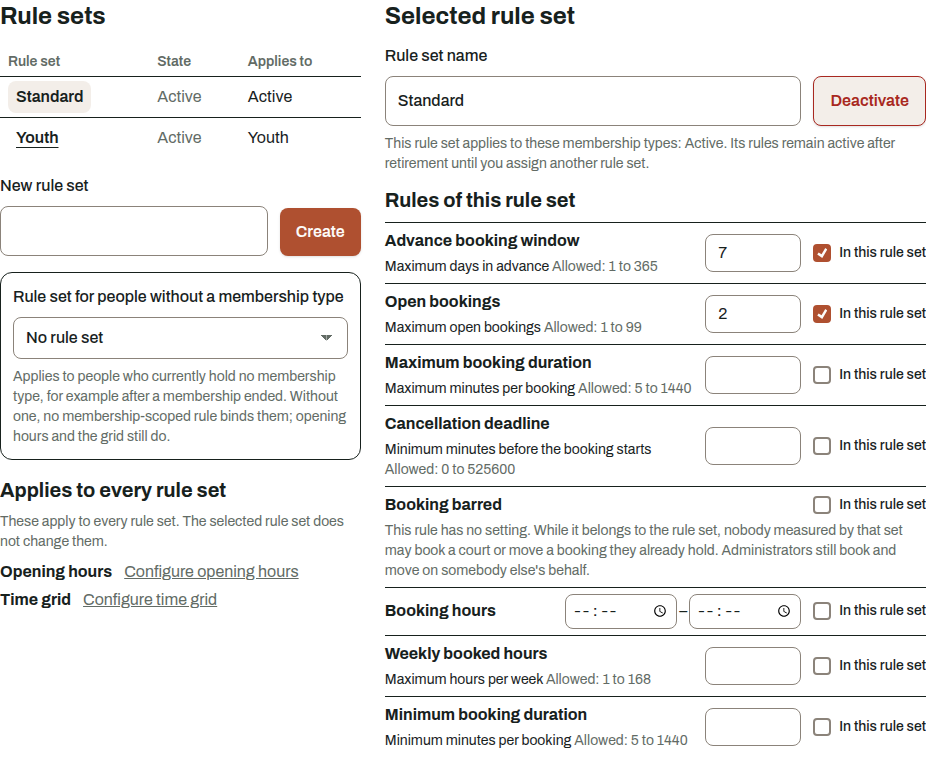
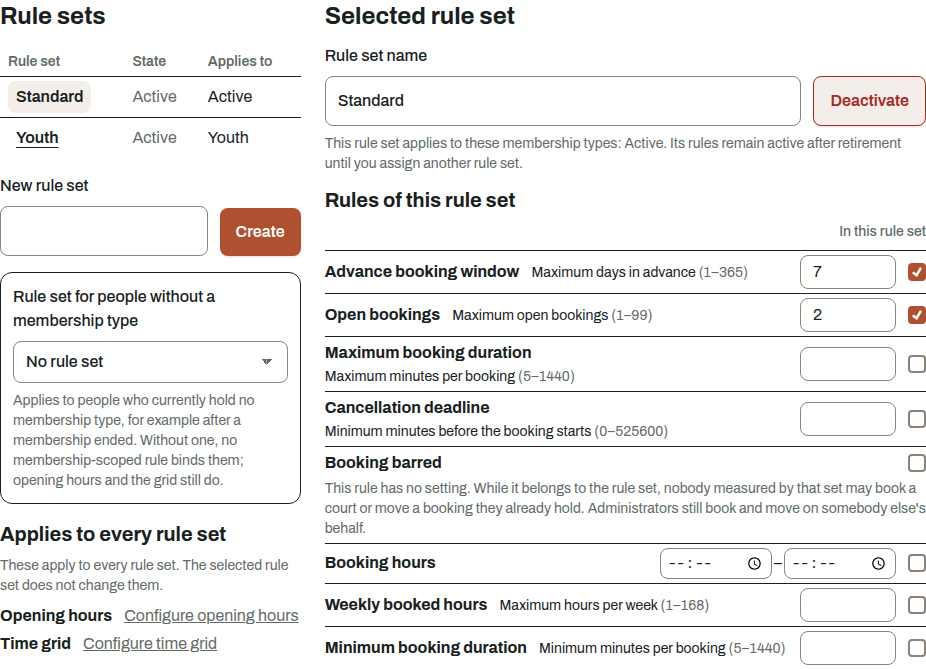
fix(web): keep the booking rules page within one desktop screen with the two new rules
The rule editor takes two thirds of the width, each rule shows its title,
parameter and a compact range on one line, and the per-rule label of the
applies checkbox becomes one column header on wide screens while every
checkbox keeps it as its accessible name. The full range stays the
input's description. The page fits 1000 px again in both languages.

Changed region(s): [[0.0, 0.0, 1.0, 1.0], [0.7559, 0.299, 0.7862, 0.3587], [0.6048, 0.8072, 0.6652, 0.8371]]

diff --git a/frontend/src/views/configuration/AdminRuleSetsView.tsx b/frontend/src/views/configuration/AdminRuleSetsView.tsx
@@ -251,7 +251,7 @@ export function AdminRuleSetsView({ configurationChanged }: { configurationChang
       : <>
         {error && <Alert testId="admin-error">{error}</Alert>}
         {success && <SuccessFeedback testId="admin-save-success">{success}</SuccessFeedback>}
-        <div data-testid="booking-rules" className="grid gap-6 [&>*]:min-w-0 xl:grid-cols-[minmax(0,4fr)_minmax(0,6fr)] xl:items-start">
+        <div data-testid="booking-rules" className="grid gap-6 [&>*]:min-w-0 xl:grid-cols-[minmax(0,1fr)_minmax(0,2fr)] xl:items-start">
           <div className="grid gap-4">
             <h2 id="rule-set-overview-heading" className="text-2xl font-bold">{t("admin.ruleSets.overview")}</h2>
             <table role="table" data-testid="rule-set-overview" aria-labelledby="rule-set-overview-heading" className="w-full border-collapse text-left">
@@ -340,6 +340,7 @@ export function AdminRuleSetsView({ configurationChanged }: { configurationChang
             />}
             <div data-testid="rule-set-rules" className="grid gap-2">
               <h3 data-testid="rule-set-rules-heading" className="text-xl font-bold">{t("admin.rules.ofRuleSet")}</h3>
+              <p aria-hidden="true" data-testid="rule-set-applies-heading" className="text-muted hidden justify-self-end text-sm font-medium xl:block">{t("admin.rules.applies")}</p>
               <div data-testid="rule-set-rules-list" className="grid [&>*]:min-w-0">
                 {configurableTypes.map((type) => {
                   const stored = storedRule(definitionOf(type.ruleType));
@@ -366,13 +367,13 @@ function RuleEditor({ type, stored, edit, disabled, changed }: { type: RuleTypeC
     aria-describedby={rangeId(parameter)} disabled={disabled}
     type={parameter.kind === "TIME_OF_DAY" ? "time" : "number"}
     min={shown(parameter, parameter.minimum)} max={shown(parameter, parameter.maximum)}
-    className={`form-control ${parameter.kind === "TIME_OF_DAY" ? "w-[7rem] px-1.5 text-sm" : "w-24 px-3"} max-w-40 rounded-lg border py-1.5`}
+    className={`form-control ${parameter.kind === "TIME_OF_DAY" ? "w-[7rem] px-1.5 text-sm" : "w-24 px-3"} max-w-40 rounded-lg border py-1`}
     value={edit.params[parameter.name] === undefined ? "" : shown(parameter, edit.params[parameter.name])}
     onChange={(event) => changed({ applies: true, params: entered(edit.params, parameter, event.target.value) })} />;
   const first = type.parameters[0];
   const last = type.parameters.at(-1);
-  return <article className="grid gap-x-3 gap-y-1 border-t py-1.5 sm:grid-cols-[minmax(0,1fr)_auto] sm:items-center">
-    <div className="grid min-w-0 gap-1">
+  return <article className="grid gap-x-3 gap-y-1 border-t py-1 sm:grid-cols-[minmax(0,1fr)_auto] sm:items-center">
+    <div className="flex min-w-0 flex-wrap items-baseline gap-x-3 gap-y-0.5">
       <h4 data-testid={`rule-${type.ruleType}-title`} className="font-bold">{t(`admin.rules.type.${type.ruleType}`)}</h4>
       {timeWindow && first && last
         ? <p id={`rule-${type.ruleType}-range`} data-testid={`rule-${type.ruleType}-range`} className="sr-only">
@@ -380,7 +381,10 @@ function RuleEditor({ type, stored, edit, disabled, changed }: { type: RuleTypeC
         </p>
         : type.parameters.map((parameter) => <p key={parameter.name} className="text-sm">
           <label htmlFor={`rule-${type.ruleType}-${parameter.name}`}>{t(`admin.rules.parameter.${parameter.name}`)}</label>
-          {" "}<span id={rangeId(parameter)} data-testid={`rule-${type.ruleType}-${parameter.name}-range`} className="text-muted whitespace-nowrap">
+          {" "}<span aria-hidden="true" data-testid={`rule-${type.ruleType}-${parameter.name}-range-short`} className="text-muted whitespace-nowrap">
+            {t("admin.rules.rangeShort", { minimum: shown(parameter, parameter.minimum), maximum: shown(parameter, parameter.maximum) })}
+          </span>
+          <span id={rangeId(parameter)} data-testid={`rule-${type.ruleType}-${parameter.name}-range`} className="sr-only">
             {t("admin.rules.range", { minimum: shown(parameter, parameter.minimum), maximum: shown(parameter, parameter.maximum) })}
           </span>
         </p>)}
@@ -392,7 +396,7 @@ function RuleEditor({ type, stored, edit, disabled, changed }: { type: RuleTypeC
       <label className="flex items-center gap-2 text-sm font-medium">
         <input data-testid={`rule-${type.ruleType}-applies`} type="checkbox" disabled={disabled} checked={edit.applies}
                onChange={(event) => changed(event.target.checked ? { applies: true, params: stored.params } : { applies: false, params: {} })} />
-        {t("admin.rules.applies")}
+        <span className="sr-only sm:not-sr-only xl:sr-only">{t("admin.rules.applies")}</span>
       </label>
     </div>
     {type.parameters.length === 0 && <p data-testid={`rule-${type.ruleType}-description`} className="text-muted text-sm sm:col-span-2">{t(`admin.rules.description.${type.ruleType}`, { defaultValue: "" })}</p>}

diff --git a/frontend/src/views/configuration/AdminRuleSetsView.test.tsx b/frontend/src/views/configuration/AdminRuleSetsView.test.tsx
@@ -180,6 +180,10 @@ describe("AdminRuleSetsView", () => {
     expect(screen.getByTestId("rule-SLOT_GRID-global")).toHaveAttribute("href", "/admin/configuration#slot-minutes");
     await waitFor(() => expect(screen.getByTestId("rule-ADVANCE_WINDOW-maxDays")).toHaveValue(7));
     expect(screen.getByTestId("rule-ADVANCE_WINDOW-maxDays-range")).toHaveTextContent("Allowed: 1 to 365");
+    expect(screen.getByTestId("rule-ADVANCE_WINDOW-maxDays-range-short"), "the visible range stays on the parameter's line")
+      .toHaveTextContent("(1–365)");
+    expect(screen.getByTestId("rule-ADVANCE_WINDOW-maxDays"), "screen readers still hear the full range")
+      .toHaveAccessibleDescription("Allowed: 1 to 365");
     expect(screen.getByTestId("rule-ADVANCE_WINDOW-maxDays")).toHaveAccessibleDescription("Allowed: 1 to 365");
     expect(screen.getByTestId("rule-ADVANCE_WINDOW-maxDays"), "the browser knows the range too").toHaveAttribute("min", "1");
     expect(screen.getByTestId("rule-ADVANCE_WINDOW-maxDays")).toHaveAttribute("max", "365");
@@ -191,7 +195,7 @@ describe("AdminRuleSetsView", () => {
     await screen.findByTestId("rule-ADVANCE_WINDOW-maxDays");
 
     // then
-    expect(screen.getByTestId("booking-rules")).toHaveClass("xl:grid-cols-[minmax(0,4fr)_minmax(0,6fr)]");
+    expect(screen.getByTestId("booking-rules")).toHaveClass("xl:grid-cols-[minmax(0,1fr)_minmax(0,2fr)]");
     expect(screen.getByTestId("rule-set-editor"), "the rules sit beside the overview, not below it")
       .toContainElement(screen.getByTestId("rule-set-rules"));
     expect(screen.getByTestId("rule-set-editor")).not.toContainElement(screen.getByTestId("rule-set-overview"));

diff --git a/frontend/src/locales/en.ts b/frontend/src/locales/en.ts
@@ -296,6 +296,7 @@ const en: Record<keyof typeof de, string> = {
   "admin.rules.parameter.maxHours": "Maximum hours per week",
   "admin.rules.parameter.minDurationMinutes": "Minimum minutes per booking",
   "admin.rules.range": "Allowed: {{minimum}} to {{maximum}}",
+  "admin.rules.rangeShort": "({{minimum}}–{{maximum}})",
   "admin.cancel": "Cancel",
   "admin.person.title": "Person",
   "admin.person.person": "Person",

diff --git a/frontend/src/locales/de.ts b/frontend/src/locales/de.ts
@@ -294,6 +294,7 @@ const de = {
   "admin.rules.parameter.maxHours": "Höchstens Stunden pro Woche",
   "admin.rules.parameter.minDurationMinutes": "Mindestens Minuten pro Buchung",
   "admin.rules.range": "Erlaubt: {{minimum}} bis {{maximum}}",
+  "admin.rules.rangeShort": "({{minimum}}–{{maximum}})",
   "admin.cancel": "Abbrechen",
   "admin.person.title": "Person",
   "admin.person.person": "Person",
